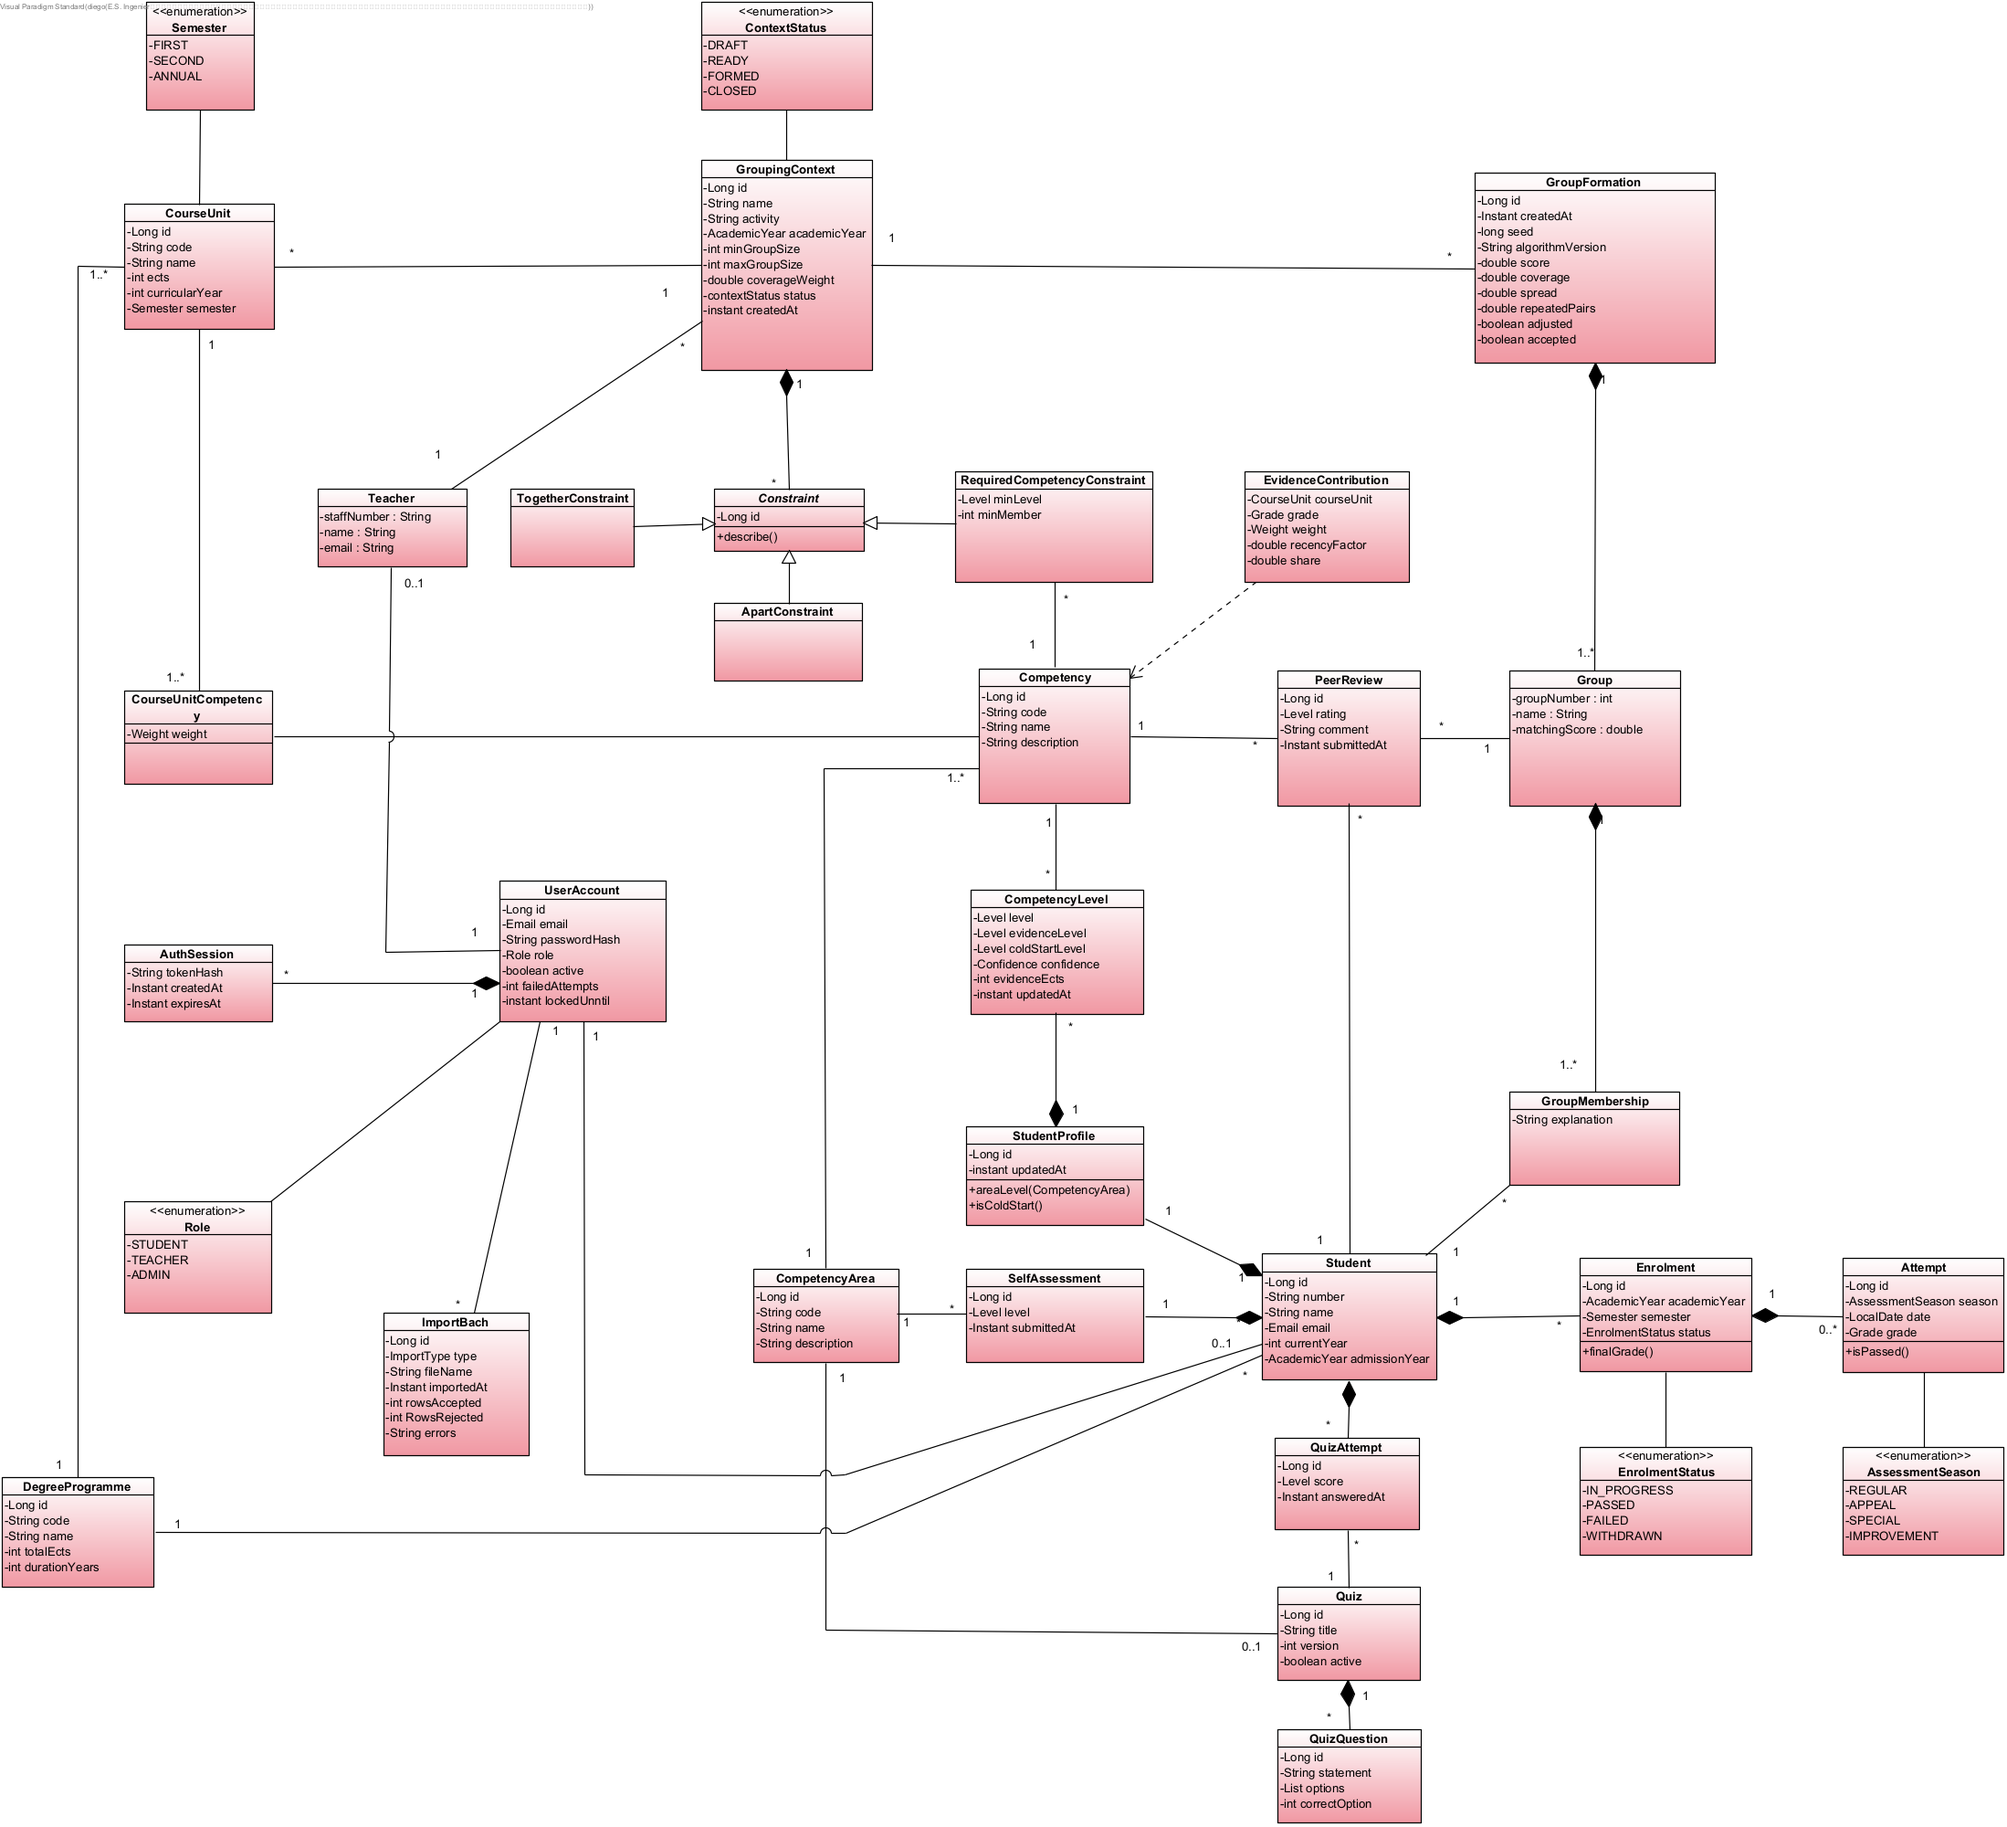
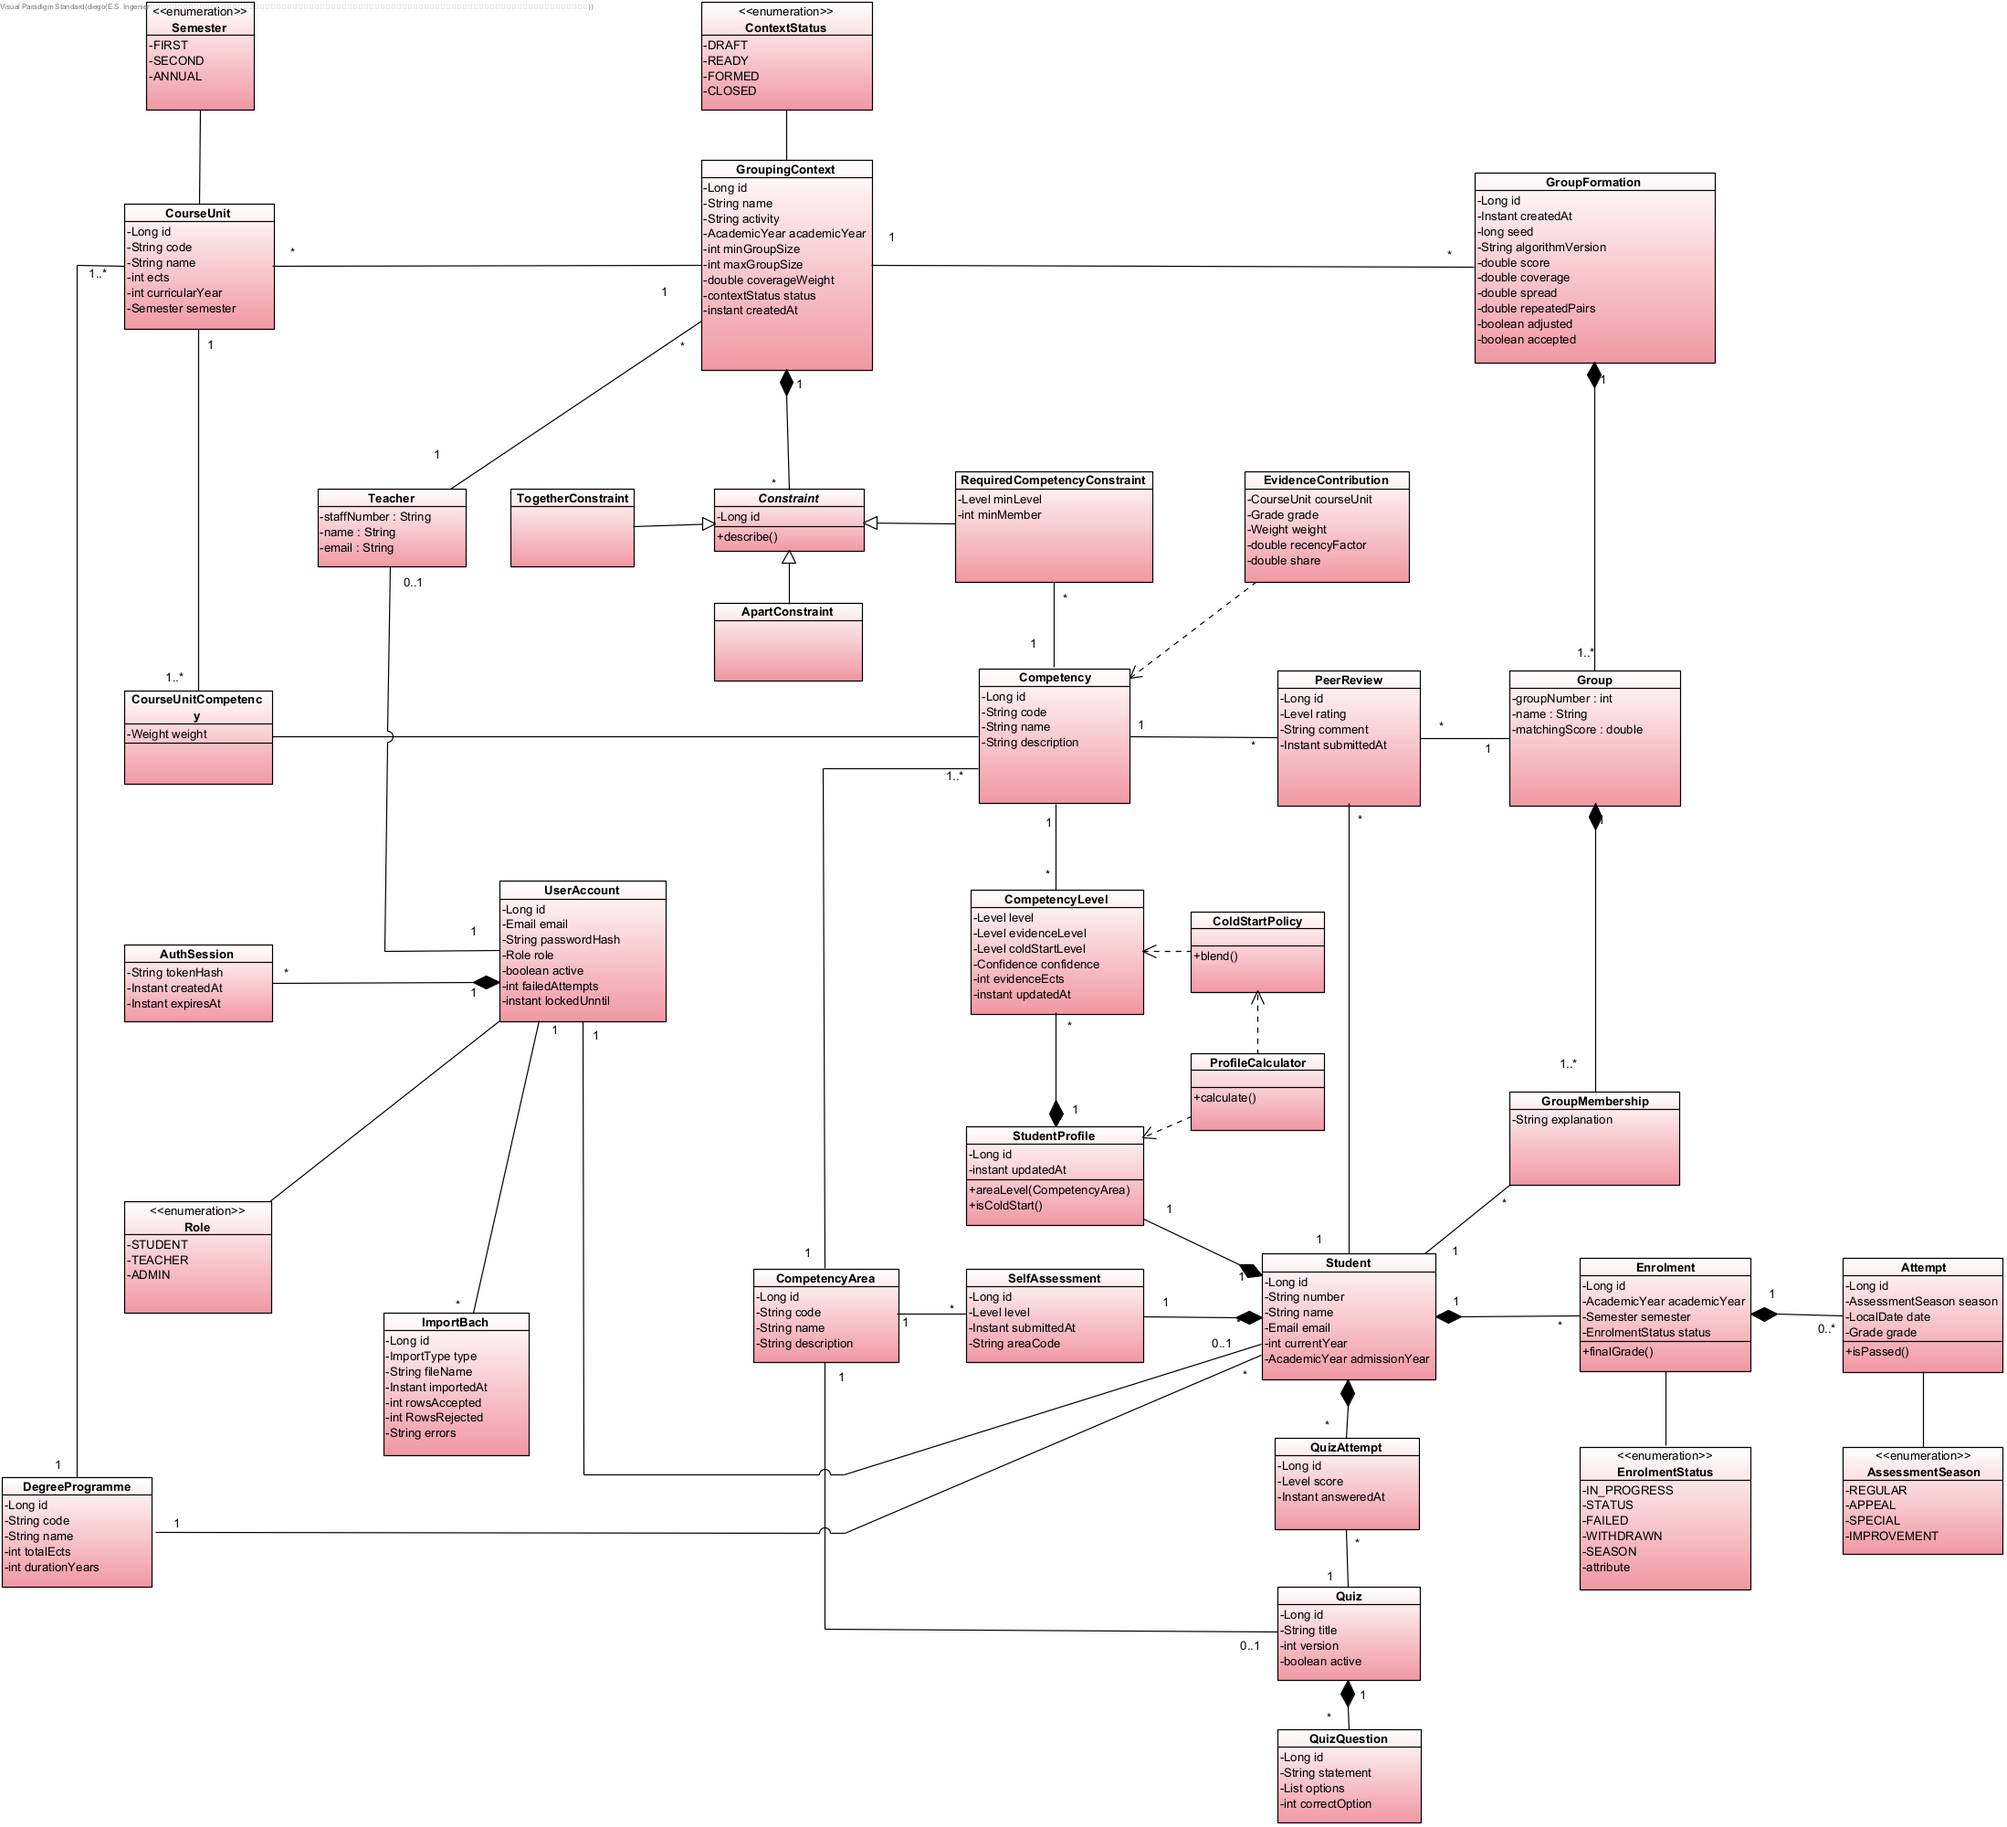
docs(domain): update domain model v2 with profile and cold start (#61) (#77)
* docs(domain): update domain model v2 with profile and cold start (#61)

* docs: add missing A5, A7 and A8 requirements to domain model (#61)

* docs(domain): add business rules and update domain model v2 (#61)

* docs(domain): close diagram block and align business rules R1-R14 with use cases (#61)

diff --git a/docs/domain/README.md b/docs/domain/README.md
@@ -122,3 +122,24 @@ classDiagram
     
     Student "1" -- "0..*" PeerReview
     PeerReview "0..*" -- "1" Student
+  ```
+## Business rules
+
+The use cases (`docs/use-cases/`) refer to these rules by number.
+
+| # | Rule |
+|---|---|
+| R1 | Student number and e-mail are unique. Grades are integers from 0 to 20. |
+| R2 | A student has at most one enrolment per course unit and academic year (format `2024/25`). |
+| R3 | Academic years and semesters must exist in the curricular plan; the enrolment status follows its attempts (passed when a grade ≥ 10 exists). |
+| R4 | An improvement attempt (`MELHORIA`) is only allowed on a passed enrolment and only replaces the grade when it is higher. |
+| R5 | The evidence grade of a course unit is the best passing grade (≥ 10) over all its enrolments; failed attempts give no evidence (ADR-0003, F2). |
+| R6 | Every course unit contributes to at least one competency, with a weight in ]0, 1]. |
+| R7 | Levels are in [0, 100] and confidence in [0, 1]. Score `50 + (grade − 10) × 5` (F1); recency `0.85^semestersAgo` (F3); `α = min(1, weightedEcts / 12)` and confidence = α (F4). |
+| R8 | The profile is computed on every request and never stored (A4), so a new grade or weight is reflected immediately. |
+| R9 | No evidence and no self-assessment → `level = null` ("no data", never 0); self-assessment only → confidence 0. |
+| R10 | At most one self-assessment per student and area; a new submission overwrites the previous one. |
+| R11 | A grouping context needs 2 ≤ min ≤ max ≤ number of participants, and only students enrolled in the course unit can take part. |
+| R12 | Every participant belongs to exactly one group, and group sizes respect min and max. |
+| R13 | Grouping constraints are hard rules. |
+| R14 | Peer reviews are only for teammates (never oneself), one per teammate and competency. |
